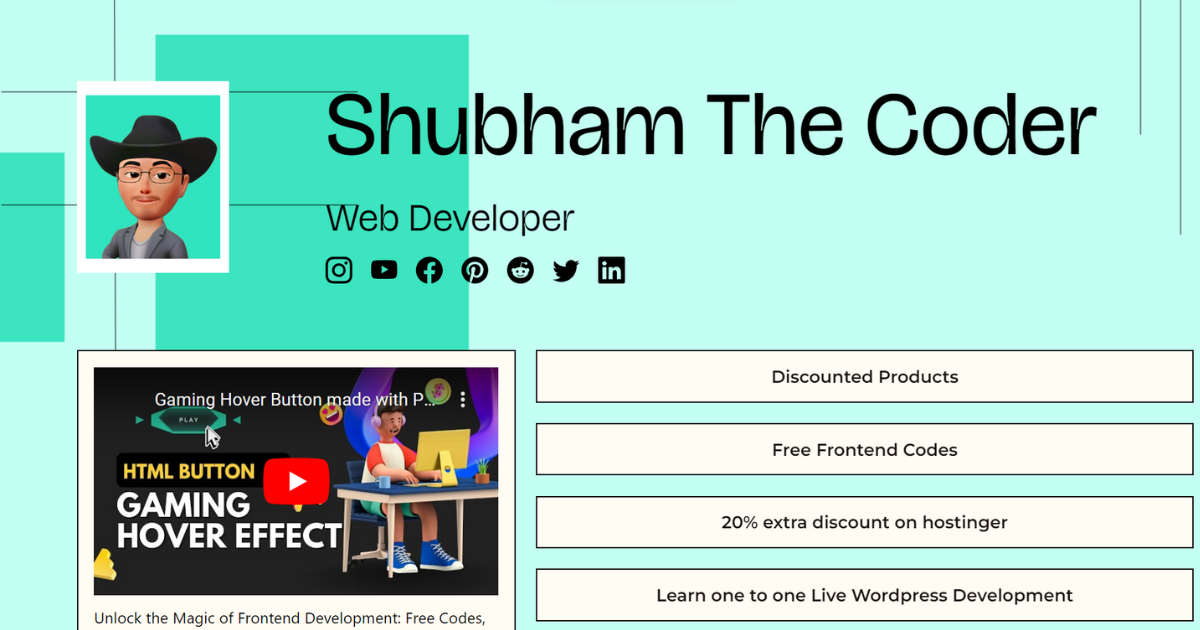
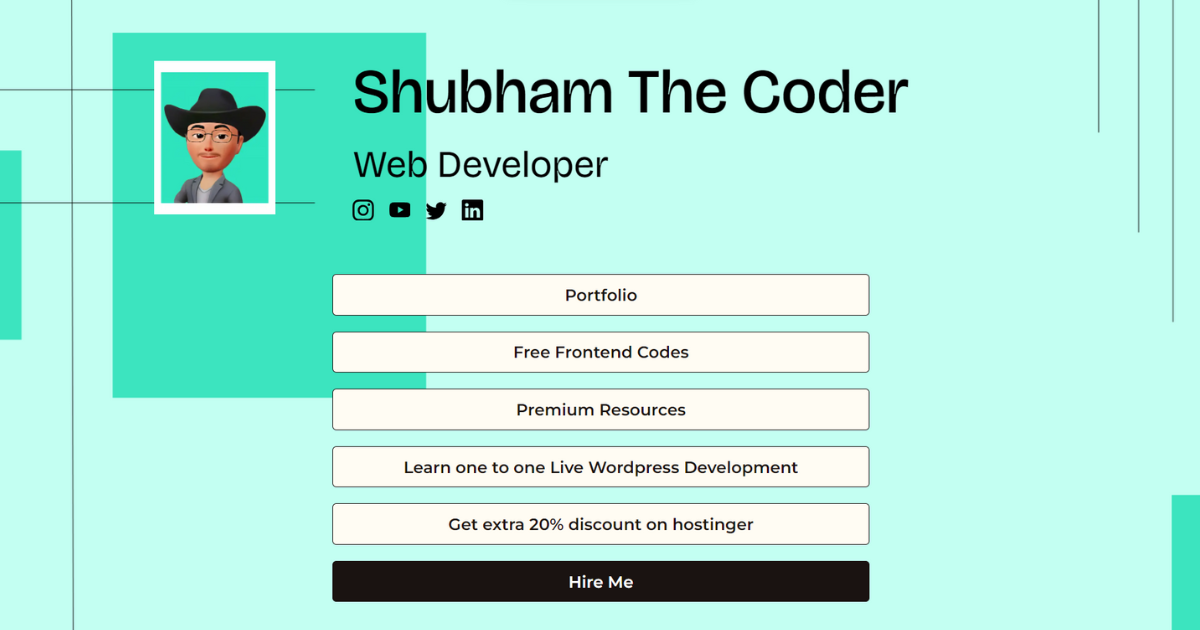
21-10--1

diff --git a/src/app/globals.css b/src/app/globals.css
@@ -1,5 +1,5 @@
 @import url('https://fonts.googleapis.com/css2?family=Montserrat:wght@600&display=swap');
-@import url('https://fonts.googleapis.com/css2?family=Bricolage+Grotesque:opsz,wght@10..48,300;10..48,400;10..48,600&family=Play:wght@700&display=swap');
+@import url('https://fonts.googleapis.com/css2?family=Bricolage+Grotesque:opsz,wght@12..96,400;12..96,500;12..96,600;12..96,700&display=swap');
 
 * {
   box-sizing: border-box;
@@ -79,14 +79,15 @@ body {
 }
 
 #name {
-  font-size: 7vw;
+  font-size: 5em;
   grid-area: name;
+  font-weight: 500;
   font-family: 'Bricolage Grotesque', sans-serif;
 }
 
 #desc {
-  font-size: 3vw;
-  font-weight: 300;
+  font-size: 3em;
+  font-weight: 400;
   grid-area: desc;
   font-family: 'Bricolage Grotesque', sans-serif;
 }
@@ -205,7 +206,7 @@ body {
   }
 
   #name {
-    font-size: 10vw;
+    font-size: 9.7vw;
     text-align: center;
   }
 
@@ -231,7 +232,7 @@ body {
     font-size: 4vw;
   }
   .content {
-    width: 90% !important;
+    width: 90%!important;
     margin: auto;
   }
 }
